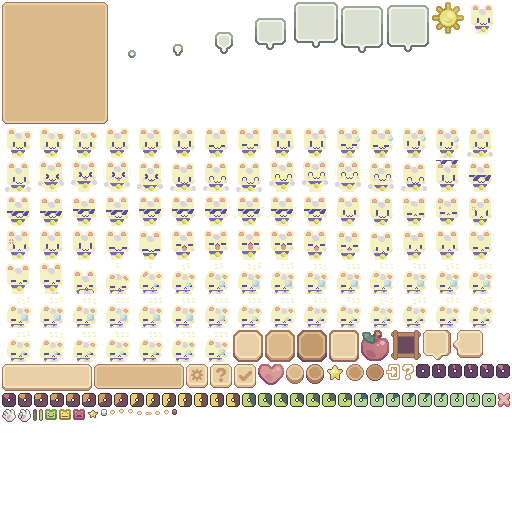
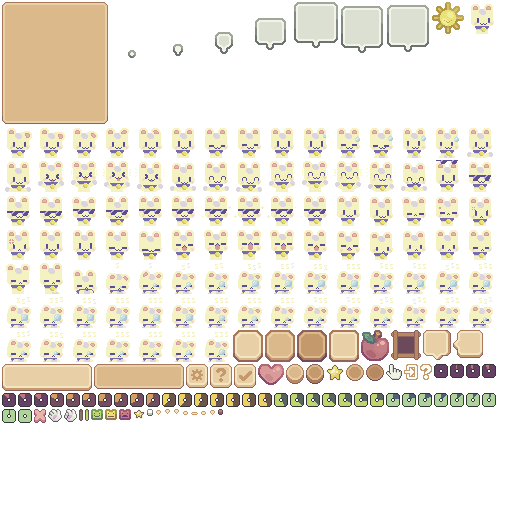
Fishing: the game window above the HUD, a hand pointer that is also the bite's clock
- The fishing game's window sits in the middle above the HUD's bottom row, which
  stays bright (the face's reactions show); the panel is 960 tall.
- The bite's "tap now!" is a hand pointer (drawn by tools/assets/hand_pointer.py,
  the UI pack has none) instead of the cat paw; it turns grey from its finger's
  tip down as the time passes, instead of the emptying circle.

diff --git a/core/src/com/mantkowicz/light/ui/fishing/BitePrompt.java b/core/src/com/mantkowicz/light/ui/fishing/BitePrompt.java
@@ -1,5 +1,6 @@
 package com.mantkowicz.light.ui.fishing;
 
+import com.badlogic.gdx.graphics.Color;
 import com.badlogic.gdx.graphics.g2d.TextureRegion;
 import com.badlogic.gdx.math.Interpolation;
 import com.badlogic.gdx.math.Rectangle;
@@ -15,20 +16,24 @@ import com.mantkowicz.light.resources.ResourcesService;
 import com.mantkowicz.light.resources.UiImage;
 
 /**
- * A fish bites: a big paw in the bottom right of the screen points at its middle (where the rabbit is: casting centres
- * the camera on it), a little off it, pulsing, with a circle under it that empties (the hold circle of the settings
- * gear, backwards). A tap anywhere on the screen in time hooks the fish; when the circle
- * is empty, it is gone. While it is shown, taps don't reach the map or the HUD.
+ * A fish bites: a big hand pointer just under the screen's middle (where the rabbit is: casting centres the camera on
+ * it) points up at it, pulsing, and is the clock too: white at first, it turns grey from its finger's tip down as the
+ * time passes, row by row of its pixels. A tap anywhere on the screen in time hooks the fish; when it is all grey, the
+ * fish is gone. While it is shown, taps don't reach the map or the HUD.
  */
 public class BitePrompt extends Group {
-    /** Pixels per pack pixel for the paw and the circle. */
+    /** Pixels per pack pixel for the hand. */
     private static final float SCALE = 12;
-    /** The paw's finger is this far right of and below the screen's middle (not over the rabbit). */
-    private static final float RIGHT = 50, DOWN = 70;
+    /** The hand's finger tip is this far right of and below the screen's middle (just under the rabbit). */
+    private static final float RIGHT = 30, DOWN = 80;
     private static final float PULSE = 1.2f, PULSE_SECONDS = 0.25f;
+    /** The hand's part that is used up turns this grey. */
+    private static final Color USED = new Color(0.55f, 0.55f, 0.55f, 1);
 
-    private final TextureRegion[] circle;
-    private final Image ring, paw;
+    /** The hand: a grey one, and over it the white part still left (its bottom, shorter and shorter). */
+    private final Group hand = new Group();
+    private final TextureRegion picture, whitePart;
+    private final Image white;
     private final float seconds;
     private final Runnable tapped, tooLate;
     private float left;
@@ -48,21 +53,22 @@ public class BitePrompt extends Group {
         setName("BITE");
         setTouchable(Touchable.enabled);
 
-        TextureRegion pawPicture = resources.getUiImage(UiImage.PAW_POINTING);
-        paw = new Image(pawPicture);
-        paw.setSize(pawPicture.getRegionWidth() * SCALE, pawPicture.getRegionHeight() * SCALE);
-        paw.setOrigin(0, paw.getHeight());
-        paw.setTouchable(Touchable.disabled);
-        paw.addAction(Actions.forever(Actions.sequence(
+        picture = resources.getUiImage(UiImage.HAND_POINTING);
+        hand.setSize(picture.getRegionWidth() * SCALE, picture.getRegionHeight() * SCALE);
+        Image grey = new Image(picture);
+        grey.setSize(hand.getWidth(), hand.getHeight());
+        grey.setColor(USED);
+        hand.addActor(grey);
+        whitePart = new TextureRegion(picture);
+        white = new Image(new TextureRegionDrawable(whitePart));
+        white.setSize(hand.getWidth(), hand.getHeight());
+        hand.addActor(white);
+        hand.setOrigin(UiImage.HAND_TIP_X * SCALE, hand.getHeight()); // it pulses from its finger's tip
+        hand.setTouchable(Touchable.disabled);
+        hand.addAction(Actions.forever(Actions.sequence(
                 Actions.scaleTo(PULSE, PULSE, PULSE_SECONDS, Interpolation.sine),
                 Actions.scaleTo(1, 1, PULSE_SECONDS, Interpolation.sine))));
-        addActor(paw);
-
-        circle = resources.getUiAnimation(UiImage.HOLD_CIRCLE).getKeyFrames();
-        ring = new Image(new TextureRegionDrawable(circle[circle.length - 1]));
-        ring.setSize(circle[0].getRegionWidth() * SCALE, circle[0].getRegionHeight() * SCALE);
-        ring.setTouchable(Touchable.disabled);
-        addActor(ring);
+        addActor(hand);
         cover(ScreenArea.of(ui));
 
         addListener(new InputListener() {
@@ -86,8 +92,7 @@ public class BitePrompt extends Group {
         }
         followTheScreen();
         left -= delta;
-        float full = Math.max(0, left / seconds);
-        ((TextureRegionDrawable) ring.getDrawable()).setRegion(circle[Math.round(full * (circle.length - 1))]);
+        showTimeLeft(Math.max(0, left / seconds));
         if (left <= 0) {
             done = true;
             remove();
@@ -103,11 +108,20 @@ public class BitePrompt extends Group {
         }
     }
 
-    /** Over this area; the paw's finger (the picture's top left) a little right of and below its middle. */
+    /** Over this area; the hand's finger tip a little right of and below its middle, pointing up at it. */
     private void cover(Rectangle screen) {
         setBounds(screen.x, screen.y, screen.width, screen.height);
-        paw.setPosition(screen.width / 2f + RIGHT, screen.height / 2f - DOWN - paw.getHeight());
-        ring.setPosition(paw.getX() + (paw.getWidth() - ring.getWidth()) / 2f, paw.getY() - ring.getHeight() - 16);
+        hand.setPosition(screen.width / 2f + RIGHT - UiImage.HAND_TIP_X * SCALE,
+                screen.height / 2f - DOWN - hand.getHeight());
+    }
+
+    /** The white part left: this share of the hand's rows from its bottom (whole pixels); grey above it. */
+    private void showTimeLeft(float share) {
+        int rows = picture.getRegionHeight(), whiteRows = Math.round(share * rows);
+        whitePart.setRegion(picture.getRegionX(), picture.getRegionY() + rows - whiteRows, picture.getRegionWidth(),
+                whiteRows);
+        white.setHeight(whiteRows * SCALE);
+        white.setVisible(whiteRows > 0);
     }
 
     /** Seconds left to tap. */

diff --git a/core/src/com/mantkowicz/light/ui/fishing/RhythmGame.java b/core/src/com/mantkowicz/light/ui/fishing/RhythmGame.java
@@ -45,7 +45,7 @@ public class RhythmGame extends Group {
         void over(boolean won);
     }
 
-    private static final float WIDTH = 600, HEIGHT = 1000, MARGIN = 32, GAP = 12;
+    private static final float WIDTH = 600, HEIGHT = 960, MARGIN = 32, GAP = 12;
     /** A fish and an X mark (16 pack pixels, 5 screen pixels each), the water's tiles. */
     private static final float ICON = 16 * 4, FISH = 16 * 7, TILE = 16 * 4;
     /** The line: how thick, how far above the nets. */
@@ -83,6 +83,7 @@ public class RhythmGame extends Group {
     /** The panel and everything on it, in the middle of the screen (it stays there when the window is resized). */
     private final Group window = new Group();
     private final TextureRegion prize;
+    private final float floor;
     private final Stage ui;
     private final Image dim;
     private final float lanesX, laneWidth, lineY, topY, waterBottom;
@@ -94,10 +95,13 @@ public class RhythmGame extends Group {
      * @param ui    the UI stage: the game covers what that shows, its window in the middle
      * @param rules how hard ({@link RhythmRules#forLevel})
      * @param prize the fish the player gets for winning: it pops up when the game is won
+     * @param floor how high the HUD's bottom row (the face, the backpack) reaches over the screen's bottom: the panel
+     *              goes in the middle of the screen above it and the dim stops there, so the face's reactions show
      */
-    public RhythmGame(ResourcesService resources, Stage ui, RhythmRules rules, TextureRegion prize,
+    public RhythmGame(ResourcesService resources, Stage ui, RhythmRules rules, TextureRegion prize, float floor,
             Listener listener) {
         this.prize = prize;
+        this.floor = floor;
         this.resources = resources;
         this.listener = listener;
         this.round = new RhythmRound(rules);
@@ -157,12 +161,15 @@ public class RhythmGame extends Group {
         });
     }
 
-    /** Over what the UI stage shows now, the panel in its middle. */
+    /** Over what the UI stage shows now (taps on the HUD under it don't get through), the panel in the middle above
+     * the HUD's bottom row. */
     private void coverTheScreen() {
         Rectangle screen = ScreenArea.of(getStage() != null ? getStage() : ui);
         setBounds(screen.x, screen.y, screen.width, screen.height);
-        dim.setSize(screen.width, screen.height);
-        window.setPosition(Math.round((screen.width - WIDTH) / 2f), Math.round((screen.height - HEIGHT) / 2f));
+        float above = Math.max(0, Math.min(floor, screen.height - HEIGHT)); // the panel always fits: above or over it
+        dim.setBounds(0, above, screen.width, screen.height - above);
+        window.setPosition(Math.round((screen.width - WIDTH) / 2f),
+                Math.round(above + (screen.height - above - HEIGHT) / 2f));
     }
 
     private float laneMiddle(int lane) {

diff --git a/core/src/com/mantkowicz/light/feature/FishingFeature.java b/core/src/com/mantkowicz/light/feature/FishingFeature.java
@@ -41,8 +41,8 @@ import java.util.Set;
  * ({@link #NO_FISH_CHANCE}) no fish comes: it bobs {@link #MOST_WAIT_SECONDS}, the line comes out and the face
  * sweats.</li>
  * <li>A fish bites: the bobber is pulled under with a splash, the rabbit's rod shakes, the face says "!!!" (happy),
- * and a big paw in the bottom right of the screen points at its middle (the rabbit), pulsing, with a circle emptying
- * under it ({@link BitePrompt}).</li>
+ * and a big hand pointer just under the screen's middle points up at it (the rabbit), pulsing, turning grey from its
+ * finger's tip down as the time passes ({@link BitePrompt}).</li>
  * <li>A tap anywhere on the screen within {@link #BITE_SECONDS} hooks it and the fishing game opens
  * ({@link RhythmGame}: fish down three lanes, catch them with the nets on the line): the face is happy at each catch
  * and sad at each miss. Won: the rabbit pulls the line out, the fish
@@ -276,22 +276,23 @@ public class FishingFeature implements PlayerFeature {
         phase = Phase.GAME;
         Stage ui = context.getUiStage();
         prize = new Fish(FishType.values()[MathUtils.random(FishType.values().length - 1)], resources);
-        game = new RhythmGame(resources, ui, rules, prize.getPicture(), new RhythmGame.Listener() {
-            @Override
-            public void caught() {
-                face().play(UiImage.TEEMO_HAPPY);
-            }
+        game = new RhythmGame(resources, ui, rules, prize.getPicture(), hud.getRow().getTop(),
+                new RhythmGame.Listener() {
+                    @Override
+                    public void caught() {
+                        face().play(UiImage.TEEMO_HAPPY);
+                    }
 
-            @Override
-            public void missed() {
-                face().play(UiImage.TEEMO_SAD);
-            }
+                    @Override
+                    public void missed() {
+                        face().play(UiImage.TEEMO_SAD);
+                    }
 
-            @Override
-            public void over(boolean won) {
-                landed(won);
-            }
-        });
+                    @Override
+                    public void over(boolean won) {
+                        landed(won);
+                    }
+                });
         ui.addActor(game);
     }
 

diff --git a/tools/assets/hand_pointer.py b/tools/assets/hand_pointer.py
@@ -1,0 +1,64 @@
+"""
+Draws a hand pointer, the usual "tap here" cursor (the index finger straight up, the other fingers folded, the thumb
+out to the left), which the Sprout Lands UI pack doesn't have: 16x16, in the palette and dark outline of the pack's
+mouse cursors (UI Sprites/Mouse sprites). It is saved there, in the UI pack folder (git-ignored, like the pack), as
+"Hand pointing Mouse icon.png"; ui.json's mouse cursors entry picks it up as the piece mouse_hand_pointing_mouse_icon
+(UiImage.HAND_POINTING). Run it once after copying the UI pack, before build_assets.py:
+
+  python3 tools/assets/hand_pointer.py ["/path/to/Sprout Lands - UI Pack - Premium pack"]
+"""
+import sys
+from pathlib import Path
+
+from PIL import Image
+
+ROOT = Path(__file__).resolve().parent
+PACK = Path(sys.argv[1]) if len(sys.argv) > 1 else ROOT / "Sprout Lands - UI Pack - Premium pack"
+ICON = "UI Sprites/Mouse sprites/Hand pointing Mouse icon.png"
+
+# the mouse cursors' palette: the outline, the hand's white, its light and darker shade
+OUTLINE = (84, 89, 89, 255)
+WHITE, LIGHT, SHADE = (243, 244, 231, 255), (212, 217, 203, 255), (167, 173, 165, 255)
+
+# row by row from the top: O the outline, W white, L light shade, S shade (between the folded fingers)
+PICTURE = [
+    "....OOO.........",
+    "...OWWLO........",
+    "...OWWLO........",
+    "...OWWLO........",
+    "...OWWLOOO......",
+    "...OWWLOWLOOO...",
+    "...OWWLOWLOWLOO.",
+    ".OOOWWLOWLOWLOLO",
+    "OWWOWWWSWWSWWWLO",
+    "OWWLOWWWWWWWWWLO",
+    ".OWWLWWWWWWWWWLO",
+    "..OWWWWWWWWWWWLO",
+    "...OWWWWWWWWWLO.",
+    "....OWWWWWWWWLO.",
+    ".....OLLLLLLLO..",
+    "......OOOOOOO...",
+]
+COLOURS = {"O": OUTLINE, "W": WHITE, "L": LIGHT, "S": SHADE}
+# where the finger's tip is in the picture (x, from the left; the tip is the top row): the point it taps
+TIP_X = 5
+
+
+def hand_pointer():
+    icon = Image.new("RGBA", (16, 16), (0, 0, 0, 0))
+    px = icon.load()
+    for y, row in enumerate(PICTURE):
+        for x, c in enumerate(row):
+            if c in COLOURS:
+                px[x, y] = COLOURS[c]
+    return icon
+
+
+def main():
+    path = PACK / ICON
+    hand_pointer().save(path)
+    print(f"{path}: the hand pointer")
+
+
+if __name__ == "__main__":
+    main()

diff --git a/core/src/com/mantkowicz/light/resources/UiImage.java b/core/src/com/mantkowicz/light/resources/UiImage.java
@@ -77,11 +77,19 @@ public enum UiImage {
     PAW_POINTING("mouse_catpaw_pointing_mouse_icon"),
     /** A pink X: a fish missed in the fishing game. */
     MISS("marks/miss"),
+    /**
+     * A hand pointer, the finger up (drawn by tools/assets/hand_pointer.py, the pack has none): tap now! Its finger's
+     * tip is {@link #HAND_TIP_X} pack pixels from its left, on its top.
+     */
+    HAND_POINTING("mouse_hand_pointing_mouse_icon"),
     /** The face sad (closes its eyes, then a red mark): a fish got away. */
     TEEMO_SAD("emotes_premium/row_24"),
     /** The face puts its sunglasses on, then wears them with a sparkle: a fish caught. */
     TEEMO_COOL_ON("emotes_premium/row_19"),
     TEEMO_COOL("emotes_premium/row_22");
+
+    /** Where {@link #HAND_POINTING}'s finger tip is: this many pack pixels from the picture's left (on its top). */
+    public static final int HAND_TIP_X = 5;
 
     private final String piece;
 

diff --git a/docs/hud-design.md b/docs/hud-design.md
@@ -16,7 +16,7 @@ still the target. The HUD is drawn at 4 pack pixels per pixel (`Hud.SCALE`), tex
 | Left of the face | **Backpack**: 2 slots showing what the player carries. Tapping a slot throws its item out next to the player (with nowhere for it to land, the slot shakes); next to an animal wishing for that item it gives it instead, as the animal's button does. With a full backpack, stepping onto an item throws out the first slot's item (the slot shakes) and takes the new one a second later. Taps on the bottom row's pieces (slots, face, stamina bar) stay in the HUD; taps in the gaps between them reach the map behind. |
 | Right of the face | **The tool button** (the pack's brown round button, `ToolButton`): the tool for where the player stands (the scythe on grass: tapping it cuts the grass; the fishing rod on a fishing spot: tapping it casts, and it stays while the rabbit fishes; the door on the door the rabbit came out of: tapping it goes back through; a tool shows only over the hint); without one **the hint**, a question mark; tapping it makes the face cheer and say "play around!" in a bubble over it (`SpeechBubble`: the dialog box turned so its pointer faces down). Next to a cow wishing for a crop the player doesn't carry it says "find" with the crop's picture. What it should do later is open. |
 | On the map, over a chest | **Action button** (`ActionButton`, the pack's dark brown round button, a bit smaller than the hint, on the UI stage, following what it acts on): next to a chest it appears over it, showing a gold star (treasure inside); tapping it opens the chest, which throws its items out onto free tiles. The chest stays open and, empty, has no button any more. |
-| On the map, a fishing spot | **Fishing** (feature flag `FISHING`, `FishingFeature`): standing still on a fishing spot (Tiled's `FISHING_SPOT`), the tool button shows the fishing rod. Tapped, the rabbit casts to the left (the camera centres on it once and stays); the bobber (three quarters of the pack's size) drops into the water two tiles away with a splash and bobs for 3–10 s (at random), then a fish pulls it under: the rod shakes, the face says "!!!" (happy), and a big paw in the bottom right of the screen points at its middle (the rabbit), a little off it, pulsing, over a circle that empties in 1.2 s (the gear's hold circle backwards). Now and then (30 %) no fish comes: the bobber bobs the whole 10 s, the line comes out and the face sweats (all that waiting). A tap anywhere in time opens the fishing game, a window in the middle (`ui.fishing.RhythmGame`, the settings panel without its title): three lanes of rippling water, a green line with a dark edge near their bottom (it pulses on the beat) in a slightly darker band (where a tap catches), and under each lane a round dark-brown button with a fishing net (a long handle, the hoop and its bag). About 12 fish (yellow, blue, a clownfish) swim down the lanes side-on, wiggling, in a random order of lanes, each reaching the line on a half-second beat (one beat or a few apart) within 8 s. A tap on a lane's net, or anywhere in its lane, while a fish of that lane is on the line catches it: it grows a little, turns a little green and is gone with a sparkle, the line flashes there, the face is happy. A fish that passes the line swims on, turning red, and is gone at the water's bottom; a tap too early in a lane, while its next fish is coming but not on the line yet, scares that fish off: it turns red and jumps out of its lane to the side, a little up and then down, fading. Either is a miss: a pink X pops up on the left in one of the X shadows shown from the start (one per miss that loses, from the bottom up), the face sad; three X lose at once. A tap in a lane with no fish in sight only presses the net. Taps outside the panel do nothing. The window stays over the whole screen and the panel in its middle when the screen is turned. Won: the fish the player gets pops up big in the window's upper middle, with a little bounce and a gentle wobble, and sparkles of a few sizes (about twice as big as a chest's) burst out of it all around, flying out and fading; the window closes after 1.8 s (lost: 0.8 s); then the rabbit pulls the line out and the fish leaps out of the water where the bobber went under, flying to the rabbit in an arc, turning (0.7 s, `ui.fishing.CatchFlight`), the face puts its sunglasses on, and then the fish (of a random colour) goes into the backpack (full: it lands next to the rabbit; no free tile there either: it isn't collected). Lost, or no tap after the bite: the face is sad; with no tap after the bite a fish (yellow, blue or a clownfish, as in the game) also leaps out of the water where the bobber went under, almost straight up and head first, turns over at the top and drops back in head down, fading as it goes under (1.2 s, `ui.fishing.GotAwayLeap`). One difficulty number (`FishingFeature.setLevel`, 0.15 now) picks the rules (`RhythmRules.forLevel`): how fast the fish fall (2.2 / 1.6 / 1.2 s from the top to the line), how close to the line a tap catches (0.4 / 0.28 / 0.14 s), at the levels for 3-, 5- and 8-year-olds (0.15, 0.45, 0.8); the run's length, the beat, the number of fish and lanes and the misses that lose can be set too (`FishingFeature.setRules`). A thin line goes from the rod's tip to the bobber. |
+| On the map, a fishing spot | **Fishing** (feature flag `FISHING`, `FishingFeature`): standing still on a fishing spot (Tiled's `FISHING_SPOT`), the tool button shows the fishing rod. Tapped, the rabbit casts to the left (the camera centres on it once and stays); the bobber (three quarters of the pack's size) drops into the water two tiles away with a splash and bobs for 3–10 s (at random), then a fish pulls it under: the rod shakes, the face says "!!!" (happy), and a big hand pointer (the finger up, drawn for the game: the pack has only paws) just under the middle of the screen points up at it (the rabbit), pulsing, and is the clock too: white at first, it turns grey from its finger's tip down over the 1.2 s, row by row of its pixels. Now and then (30 %) no fish comes: the bobber bobs the whole 10 s, the line comes out and the face sweats (all that waiting). A tap anywhere in time opens the fishing game, a window in the middle of the screen above the HUD's bottom row, which stays bright so the face's reactions show (`ui.fishing.RhythmGame`, the settings panel without its title, 600 x 960): three lanes of rippling water, a green line with a dark edge near their bottom (it pulses on the beat) in a slightly darker band (where a tap catches), and under each lane a round dark-brown button with a fishing net (a long handle, the hoop and its bag). About 12 fish (yellow, blue, a clownfish) swim down the lanes side-on, wiggling, in a random order of lanes, each reaching the line on a half-second beat (one beat or a few apart) within 8 s. A tap on a lane's net, or anywhere in its lane, while a fish of that lane is on the line catches it: it grows a little, turns a little green and is gone with a sparkle, the line flashes there, the face is happy. A fish that passes the line swims on, turning red, and is gone at the water's bottom; a tap too early in a lane, while its next fish is coming but not on the line yet, scares that fish off: it turns red and jumps out of its lane to the side, a little up and then down, fading. Either is a miss: a pink X pops up on the left in one of the X shadows shown from the start (one per miss that loses, from the bottom up), the face sad; three X lose at once. A tap in a lane with no fish in sight only presses the net. Taps outside the panel do nothing. The window stays over the whole screen and the panel in its middle when the screen is turned. Won: the fish the player gets pops up big in the window's upper middle, with a little bounce and a gentle wobble, and sparkles of a few sizes (about twice as big as a chest's) burst out of it all around, flying out and fading; the window closes after 1.8 s (lost: 0.8 s); then the rabbit pulls the line out and the fish leaps out of the water where the bobber went under, flying to the rabbit in an arc, turning (0.7 s, `ui.fishing.CatchFlight`), the face puts its sunglasses on, and then the fish (of a random colour) goes into the backpack (full: it lands next to the rabbit; no free tile there either: it isn't collected). Lost, or no tap after the bite: the face is sad; with no tap after the bite a fish (yellow, blue or a clownfish, as in the game) also leaps out of the water where the bobber went under, almost straight up and head first, turns over at the top and drops back in head down, fading as it goes under (1.2 s, `ui.fishing.GotAwayLeap`). One difficulty number (`FishingFeature.setLevel`, 0.15 now) picks the rules (`RhythmRules.forLevel`): how fast the fish fall (2.2 / 1.6 / 1.2 s from the top to the line), how close to the line a tap catches (0.4 / 0.28 / 0.14 s), at the levels for 3-, 5- and 8-year-olds (0.15, 0.45, 0.8); the run's length, the beat, the number of fish and lanes and the misses that lose can be set too (`FishingFeature.setRules`). A thin line goes from the rod's tip to the bobber. |
 | On the map, grass | **Grass, cut with the tool button** (feature flag `GROWING_GRASS`): standing still on grass, the tool button shows the scythe (no action button over the grass); tapping it makes the rabbit swing its scythe once (0.8 s) and the grass on its tile and on all eight tiles around gets smaller as it fades out. Grass sprouts every 30 s on tiles the rabbit can get to (0.1 %, 1 % next to grass; the map may put some on tiles, Tiled's `GRASS` with a `phase` 1–4) and grows like a crop: a tuft and two tufts under everyone, a bush and a big bush over them (90 % opaque), never over the HUD, the action buttons or the wish bubbles. It blocks nothing. |
 | On the map, over a field | **The same action button**: over a ripe field it shows the crop; tapping it makes the crop jump out onto a free tile and leaves the field empty but for a tiny sprout (the same for every crop). After picking it shows the watering can: the rabbit waters the field (water falls onto it), it grows a phase at once and then by itself, a phase every 30 s (the plant bounces a little each time and slowly squashes and stretches while it grows), with no button meanwhile; ripe again, the button is back with the crop. The can never runs dry. A sign at the field's top left corner shows its crop; while the field is empty (picked, not yet watered) it shows a question mark instead. Picking a crop makes the face happy (its animation 3 times). Nobody chose what grows yet (no seeds), so after watering a weed may grow instead (40 %, Tiled's `weedChance`); the sign keeps its question mark, and the ripe weed's button pulls it out: it rises a little and fades out, nothing is gained, and the face sweats and says "Beautiful weed but unusable!" for 3 s. |
 | On the map, over an animal | **Caring for it** (`CreatureFeature`), on action buttons in a row over the cow. A hand (the pack's paw) strokes it, also while it is hungry: it stands still while the hand fades out, then a heart over it (not covered by the button; the hand comes back only 20 s after a stroke), a small one (1.5× the pack heart) floats up from just over the player's ears. With several animals next to the player each button is for one of them and stays over it. When the cow wishes for a crop (a carrot, corn, a tomato, a pumpkin or a cucumber: one of its favourite dishes, at random), a second button with the crop (right of the hand) takes the wish bubble's place and gives it (the slot shakes, the cow eats and shows a heart); without that crop it shakes and the face says "find" with it. |

diff --git a/e2e/README.md b/e2e/README.md
@@ -73,7 +73,7 @@ Scenario ids (S1…) date from the first refactoring; older changelog entries us
 | — | Tapping the cow walks next to it. The cow's life (its state machine): stroking it with the action button over it (hearts), its wish for a crop, one of its favourite dishes (Tiled's `favouriteDish`, any crop without it) picked at random each time it gets hungry (a bubble in front of everyone on the map, replaced by the button with the carrot next to it), the hand staying next to the crop (stroked while wishing, it wishes for the same again), the button shaking and the face saying "find" with the crop without it (another crop won't do), giving the crop (the slot shakes, it eats, a heart), not fed for 90 s it gives up and grazes (three bites), every state showing its animation, its step onto a free cell (mirrored going left, cells blocked and freed), the player stepping back from a cell the cow took, the debug state label | `CowTest` | — |
 | — | Chickens (Tiled's CHICKEN, CHICKEN_BABY): wish only for corn, bored after 15 s they peck three times instead; fed corn they eat and hearts rise over them (also when stroked); restless: in 10 minutes the chick walks more than the chicken, the chicken more than the cow, and both peck often; every state has its animation; level 1 has both on its right; they never walk away from the rabbit next to them or coming to them; after a step they keep looking that way; with two animals next to the rabbit each button belongs to its animal | `ChickenTest` | — |
 | — | Chickens eat crops lying on the ground: up to 6 tiles away a chicken notices one (7: not), goes for it a step every 5 s, never onto its tile; beside it (left or right, never above or below; from above it goes round), turned to it, it pecks while the crop pulses, and after 10 s the crop is gone and the chicken goes back where it started; picked up first, it goes back; a step, or standing where it looks or pecks, that would leave the player no way to any crop on the ground makes it give its crop up for good, and going back it doesn't stop in such a place; already beside the crop it looks first too; a crop more than 12 steps round: it doesn't go; one chicken per crop; going for it or pecking it has its stroke button, and stroked it shows its hearts, gives the crop up for good and goes back | `ChickenEatsCropsTest` | — |
-| — | Fishing (FeatureFlag `FISHING`): the rod on the tool button only on a fishing spot; cast to the left, the bobber in the water two tiles away, bobbing 3–10 s, then a bite (the rod shakes, "!!!", the happy face, the paw's 1.2 s); no tap in time: gone, sad face, cast again; now and then no fish at all (bobs 10 s, sad face); tapped: the fishing game (fish down three lanes onto a line, a tap on a lane's net catches the fish on the line, playing well wins a fish into the backpack with the sunglasses face, a fish past the line is a miss with the sad face and three lose, a tap too early scares that lane's fish off (a miss), with no fish in sight it does nothing; still covering the screen after a resize); walking off while waiting takes the line out; level 1's spot (the end of its pier); none with the flag off or the map's `featuresOff=FISHING` | `FishingTest`, `RhythmRoundTest` (the game's rules: 12 fish on beats within 8 s, never three down one lane, a tap too early scares the fish off, with no fish in sight nothing) | — |
+| — | Fishing (FeatureFlag `FISHING`): the rod on the tool button only on a fishing spot; cast to the left, the bobber in the water two tiles away, bobbing 3–10 s, then a bite (the rod shakes, "!!!", the happy face, the hand pointer turning grey over 1.2 s); no tap in time: gone, sad face, cast again; now and then no fish at all (bobs 10 s, sad face); tapped: the fishing game (fish down three lanes onto a line, a tap on a lane's net catches the fish on the line, playing well wins a fish into the backpack with the sunglasses face, a fish past the line is a miss with the sad face and three lose, a tap too early scares that lane's fish off (a miss), with no fish in sight it does nothing; still covering the screen after a resize); walking off while waiting takes the line out; level 1's spot (the end of its pier); none with the flag off or the map's `featuresOff=FISHING` | `FishingTest`, `RhythmRoundTest` (the game's rules: 12 fish on beats within 8 s, never three down one lane, a tap too early scares the fish off, with no fish in sight nothing) | — |
 | — | HUD bottom row (face, backpack showing what the player carries, stamina bar (lowered, filled), the hint button right of the face, whose bubble says "play around!" over the face; the action button over a chest) and the settings gear that opens only after a 3 s hold; taps on the row don't walk; a tap on the face or the stamina bar makes the face play a gesture (random, never the same twice in a row; not while it reacts to something else); stays on the screen's edges after a resize | `HudTest` | `hud`, `hud-hint`, `hud-stamina` |
 | — | Every shipped map (android/assets): loads, the rabbit starts on a free cell (a map behind a door has no PLAYER), every chest can be reached, every door leads to another shipped map with a door of the same name and can be walked to; the game starts on level1 | `ShippedMapsTest` | — |
 | — | Doors to other maps: the rabbit ending its walk on a door goes behind a curtain (darker, then lighter again) to the door with the same name on the other map, with its backpack; every map a chain of doors leads to is built at the start; it stays on the door it came out of until it walks off and back on, or taps the door on the tool button; with no room behind the door the curtain doesn't come down and it stays on the door, free to walk off; the scythe goes from the tool button when it leaves; a watered field grows meanwhile on the map it left; a chicken goes through by itself and is as hungry on the other side; a door with `passes` keeps the cow out | `TravelTest` | — |

diff --git a/tools/assets/README.md b/tools/assets/README.md
@@ -7,6 +7,7 @@ changes, or after editing a level in Tiled.
 pip3 install pillow                                   # once
 python3 tools/assets/scythe_animation.py               # once per pack copy: the rabbit's scythe swing (see below)
 python3 tools/assets/net_icon.py                       # once per pack copy: the fishing net's icon (see below)
+python3 tools/assets/hand_pointer.py                   # once per UI pack copy: the hand pointer (see below)
 python3 tools/assets/build_assets.py "tools/assets/Sprout Lands - Sprites - premium pack"   # first run
 python3 tools/assets/build_assets.py                  # same packs as last time
 python3 tools/assets/build_assets.py --ui "/path/to/Sprout Lands - UI Pack - Premium pack"   # if it isn't in tools/assets
@@ -35,6 +36,12 @@ the sheet `scythe_icon`. Like the pack, neither file is committed: only the atla
 16x16 in the same palette and outline: a long handle from the bottom left, the hoop at its top right seen a little
 from the side, and the net's bag hanging from it, its mesh see-through. It saves `Objects/Items/fishing net icon.png` in the pack folder, read as
 the sheet `fishing_net_icon` (not committed either).
+
+**The hand pointer** (the bite's "tap now!") isn't in the UI pack either, which has only arrows and cat paws for
+cursors. `hand_pointer.py` draws one, 16x16 in the palette and dark outline of the pack's mouse cursors: the index
+finger straight up, three folded fingers, the thumb out to the left. It saves `UI Sprites/Mouse sprites/Hand pointing
+Mouse icon.png` in the UI pack folder, where `ui.json`'s mouse cursors entry picks it up as
+`mouse_hand_pointing_mouse_icon` (`UiImage.HAND_POINTING`; not committed either).
 
 If you forget to run the tool after saving a level or editing `pack.json`, `./gradlew e2e:test` fails
 (`AssetsUpToDateTest`): the generated files record the SHA-1 of their sources.

diff --git a/docs/changelog.md b/docs/changelog.md
@@ -1294,3 +1294,14 @@ Stardew Valley's; the owner picked "bite, then catch the leap").
     game, yellow, blue or a clownfish, moved by scene2d; the owner didn't want the pack's leaping fish), fading as it
     goes under, 1.2 s (`ui.fishing.GotAwayLeap`, made through `CatchFlight.gotAway` to keep `FishingFeature` under
     PMD's import limit).
+  - then (2026‑11‑19): the fishing game's window sits in the middle of the screen above the HUD's bottom row (the
+    face, the backpack: `Hud.getRow().getTop()`, passed as the game's `floor`), not over it, and the dim stops there,
+    so the face's reactions show bright; taps on the HUD under it still don't get through. The panel is 960 tall
+    (was 1000) so it has some room above and below on the smallest screen.
+  - then: the bite's "tap now!" is a hand pointer instead of the pack's pointing cat paw (the owner found it weird):
+    the UI pack has no hand, so `tools/assets/hand_pointer.py` draws one in the style of its mouse cursors
+    (`UiImage.HAND_POINTING`, its finger tip `HAND_TIP_X`), the finger up, its tip just under the screen's middle (the
+    rabbit), pulsing from the tip, the emptying circle under it. `UiImage.PAW_POINTING` stays, unused.
+  - then: the hand is the clock too, the emptying circle under it is gone: white at first, it turns grey from its
+    finger's tip down as the 1.2 s pass, a row of its pixels at a time (a grey copy under a white one cut shorter from
+    the top). `UiImage.HOLD_CIRCLE` stays for the settings gear.
